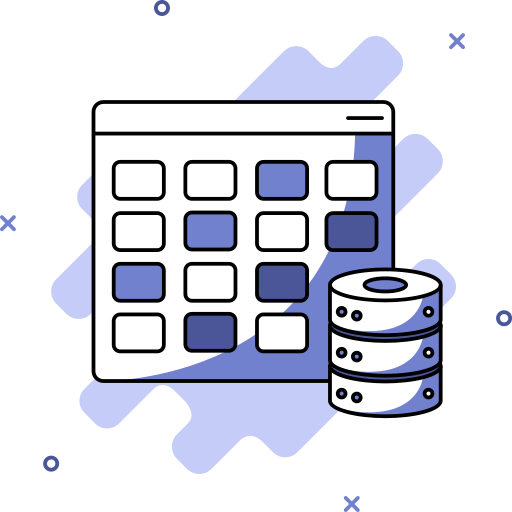
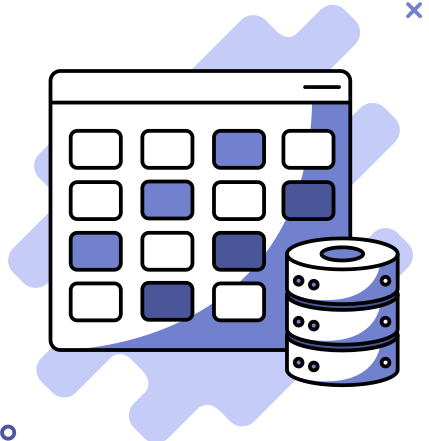
feat: responsividade da home com 1080px

diff --git a/src/components/themes/home.module.css b/src/components/themes/home.module.css
@@ -29,9 +29,10 @@
 }
 .capa img{
     align-self: center;
-    height: 80%;
-    transform: rotate(-25deg);
-    animation-name: slidein;
+    height: 70%;
+    transform:rotate(-25deg);
+    overflow:hidden;
+    animation: slidein ease-in-out;
     animation-duration: 2s;
 }
 @keyframes slidein {
@@ -103,7 +104,7 @@
     width: 25%;
 }
 .servicos li img{
-    height: 80%;
+    width: 100%;
     max-width: 400px;
     max-height: 400px;
     justify-self: center;
@@ -115,4 +116,19 @@
 .servicos li p{
     font-size: 18px;
     color:rgb(226, 223, 223);
+}
+
+@media screen and (max-width: 1080px) {
+    .capa{
+        justify-content: left;
+    }
+    .capa img{
+         height: 50%;
+    }
+    .sobre img{
+        height: 50%;
+    }
+    .servicos img{
+        width: 70%;
+    }
 }

diff --git a/src/components/home/TopicosServico.tsx b/src/components/home/TopicosServico.tsx
@@ -1,6 +1,3 @@
-import css from '../themes/home.module.css'
-
-
 interface TopicosProp{
     imagem:string;
     titulo:string;
